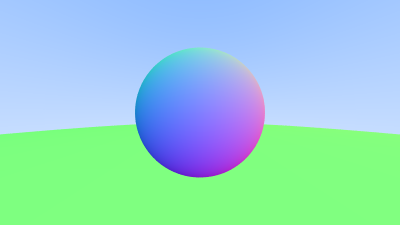
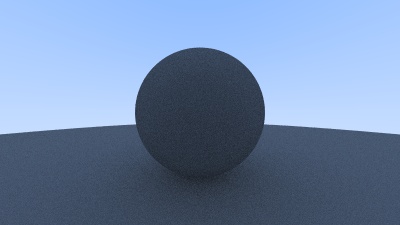
add diffuse material

diff --git a/src/vec3.rs b/src/vec3.rs
@@ -3,6 +3,8 @@ use std::ops::{
     Add, AddAssign, Div, DivAssign, Index, IndexMut, Mul, MulAssign, Neg, Sub, SubAssign,
 };
 
+use rand::Rng;
+
 use crate::interval::Interval;
 
 #[derive(Clone)]
@@ -20,6 +22,47 @@ impl Vec3 {
 
     pub const fn default() -> Self {
         Self { e: [0., 0., 0.] }
+    }
+
+    pub fn random() -> Self {
+        let mut rng = rand::thread_rng();
+        Self {
+            e: [rng.gen::<f64>(), rng.gen::<f64>(), rng.gen::<f64>()],
+        }
+    }
+
+    pub fn random_in_interval(min: f64, max: f64) -> Self {
+        let mut rng = rand::thread_rng();
+        Self {
+            e: [
+                rng.gen_range(min..max),
+                rng.gen_range(min..max),
+                rng.gen_range(min..max),
+            ],
+        }
+    }
+
+    pub fn random_in_unit_sphere() -> Self {
+        loop {
+            let p = Self::random_in_interval(-1., 1.);
+            if p.length_squared() < 1. {
+                return p;
+            }
+        }
+    }
+
+    pub fn random_unit_vector() -> Self {
+        Self::random_in_unit_sphere().unit()
+    }
+
+    pub fn random_on_hemisphere(normal: &Self) -> Self {
+        let on_unit_sphere = Self::random_unit_vector();
+        // Check if in the same hemisphere as the normal
+        if on_unit_sphere.dot(normal) > 0.0 {
+            on_unit_sphere
+        } else {
+            -on_unit_sphere
+        }
     }
 
     pub fn x(&self) -> f64 {

diff --git a/src/camera.rs b/src/camera.rs
@@ -94,7 +94,8 @@ impl Camera {
 
     fn ray_color(ray: &Ray, world: &impl Hittable) -> Color {
         if let Some(hit_record) = world.hit(ray, &Interval::new(0.0, f64::INFINITY)) {
-            return 0.5 * (hit_record.normal() + Color::new(1., 1., 1.));
+            let direction = Vec3::random_on_hemisphere(hit_record.normal());
+            return 0.5 * Self::ray_color(&Ray::new(hit_record.p().clone(), direction), world);
         }
 
         let unit_direction = ray.direction().unit();

diff --git a/src/hittable_list.rs b/src/hittable_list.rs
@@ -28,7 +28,7 @@ impl Hittable for HittableList {
         let mut maybe_record: Option<HitRecord> = None;
         for object in &self.objects {
             if let Some(hit_record) = object.hit(ray, &Interval::new(ray_t.min(), closest_so_far)) {
-                closest_so_far = *hit_record.t();
+                closest_so_far = hit_record.t();
                 maybe_record = Some(hit_record);
             }
         }

diff --git a/src/hittable.rs b/src/hittable.rs
@@ -40,8 +40,12 @@ impl HitRecord {
         &self.normal
     }
 
-    pub const fn t(&self) -> &f64 {
-        &self.t
+    pub const fn t(&self) -> f64 {
+        self.t
+    }
+
+    pub const fn p(&self) -> &Point3 {
+        &self.p
     }
 }
 
